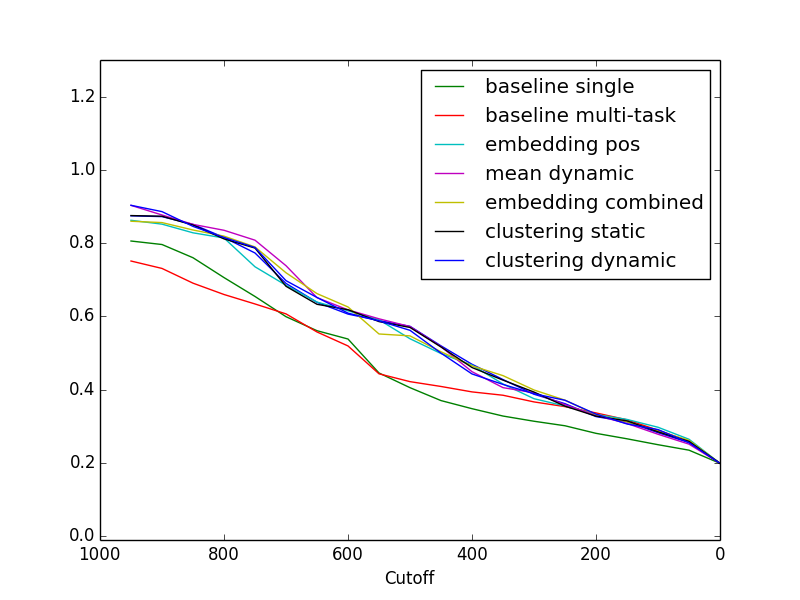
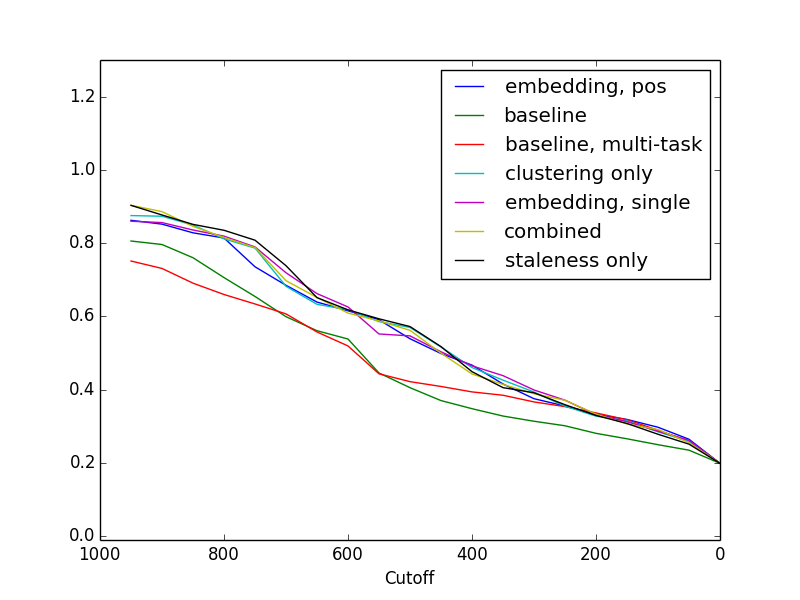
updating plots...

diff --git a/scripts/plots.py b/scripts/plots.py
@@ -10,19 +10,19 @@ from collections import defaultdict
 
 def mapping(filename):
     if 'emb_comb' in filename:
-        return 'embedding combined'
+        return 'embedding, single'
     elif 'emb_pos' in filename:
-        return 'embedding pos'
+        return 'embedding, pos'
     elif 'basic_single' in filename:
-        return 'baseline single'
+        return 'baseline'
     elif 'basic_multi' in filename:
-        return 'baseline multi-task'
+        return 'baseline, multi-task'
     elif 'clust_dyn' in filename:
-        return 'clustering dynamic'
+        return 'combined'
     elif 'clust_stat' in filename:
-        return 'clustering static'
+        return 'clustering only'
     elif 'mean_dyn' in filename:
-        return 'mean dynamic'
+        return 'staleness only'
     elif 'mean_stat' in filename:
         pass
     else:    
